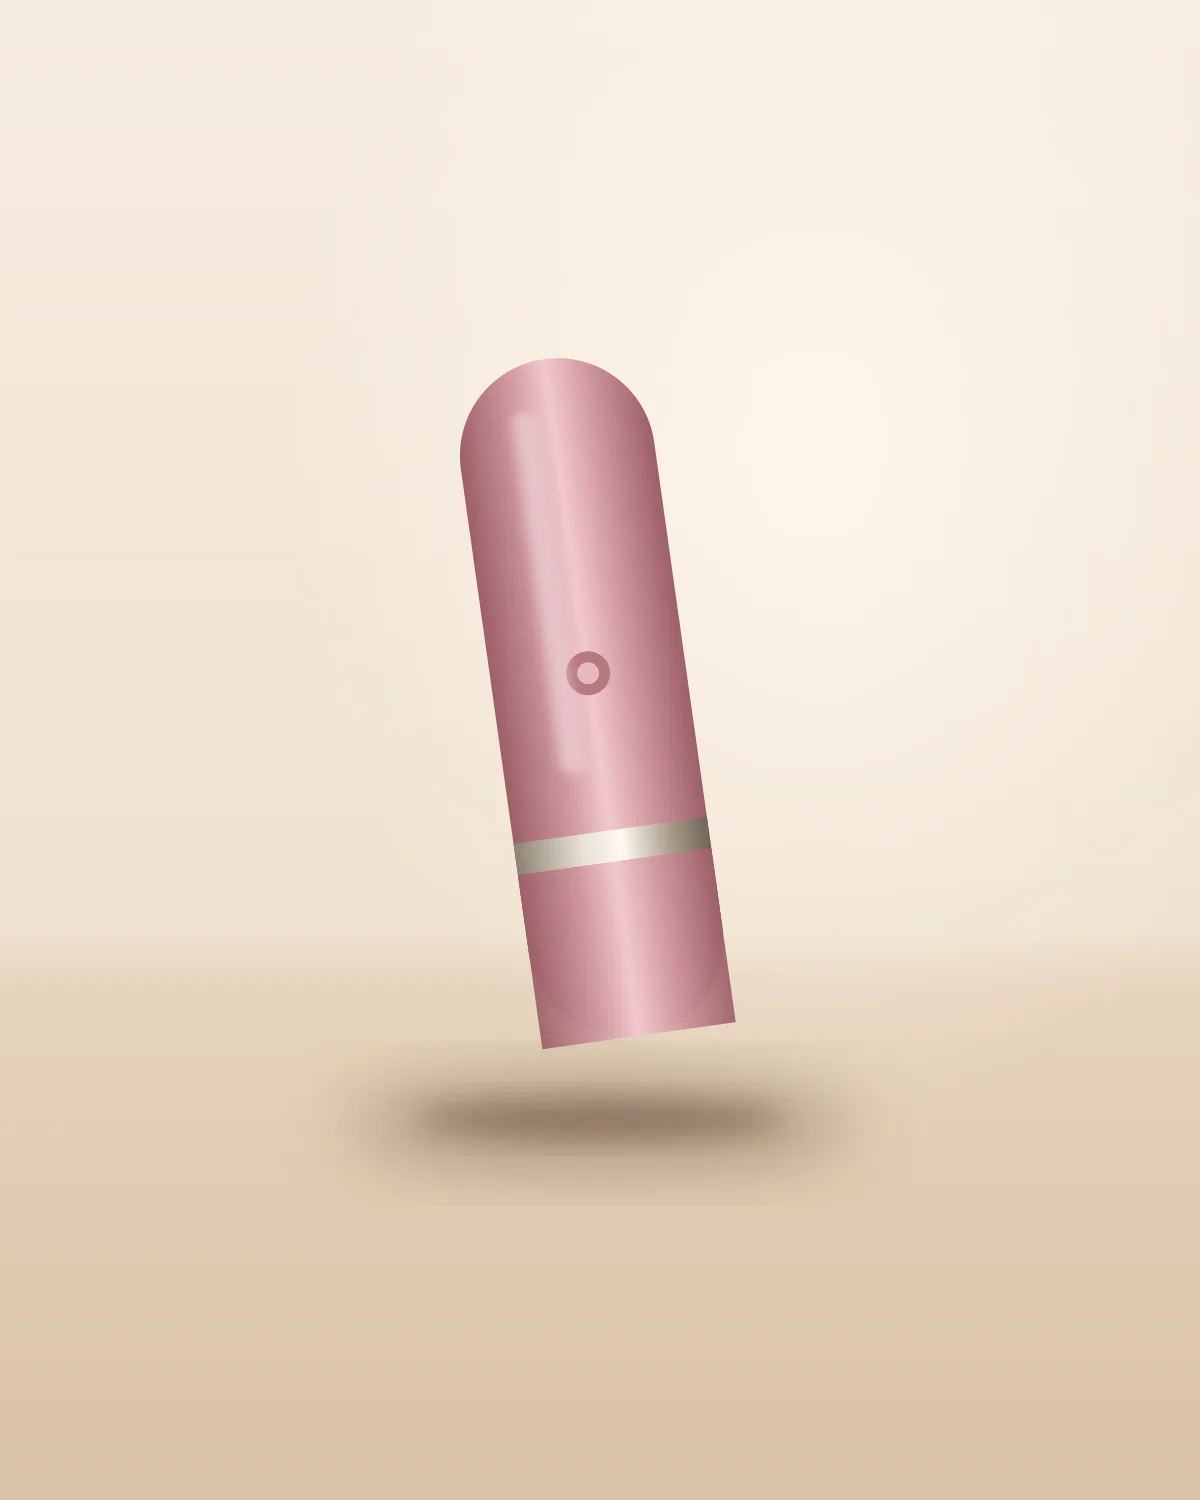
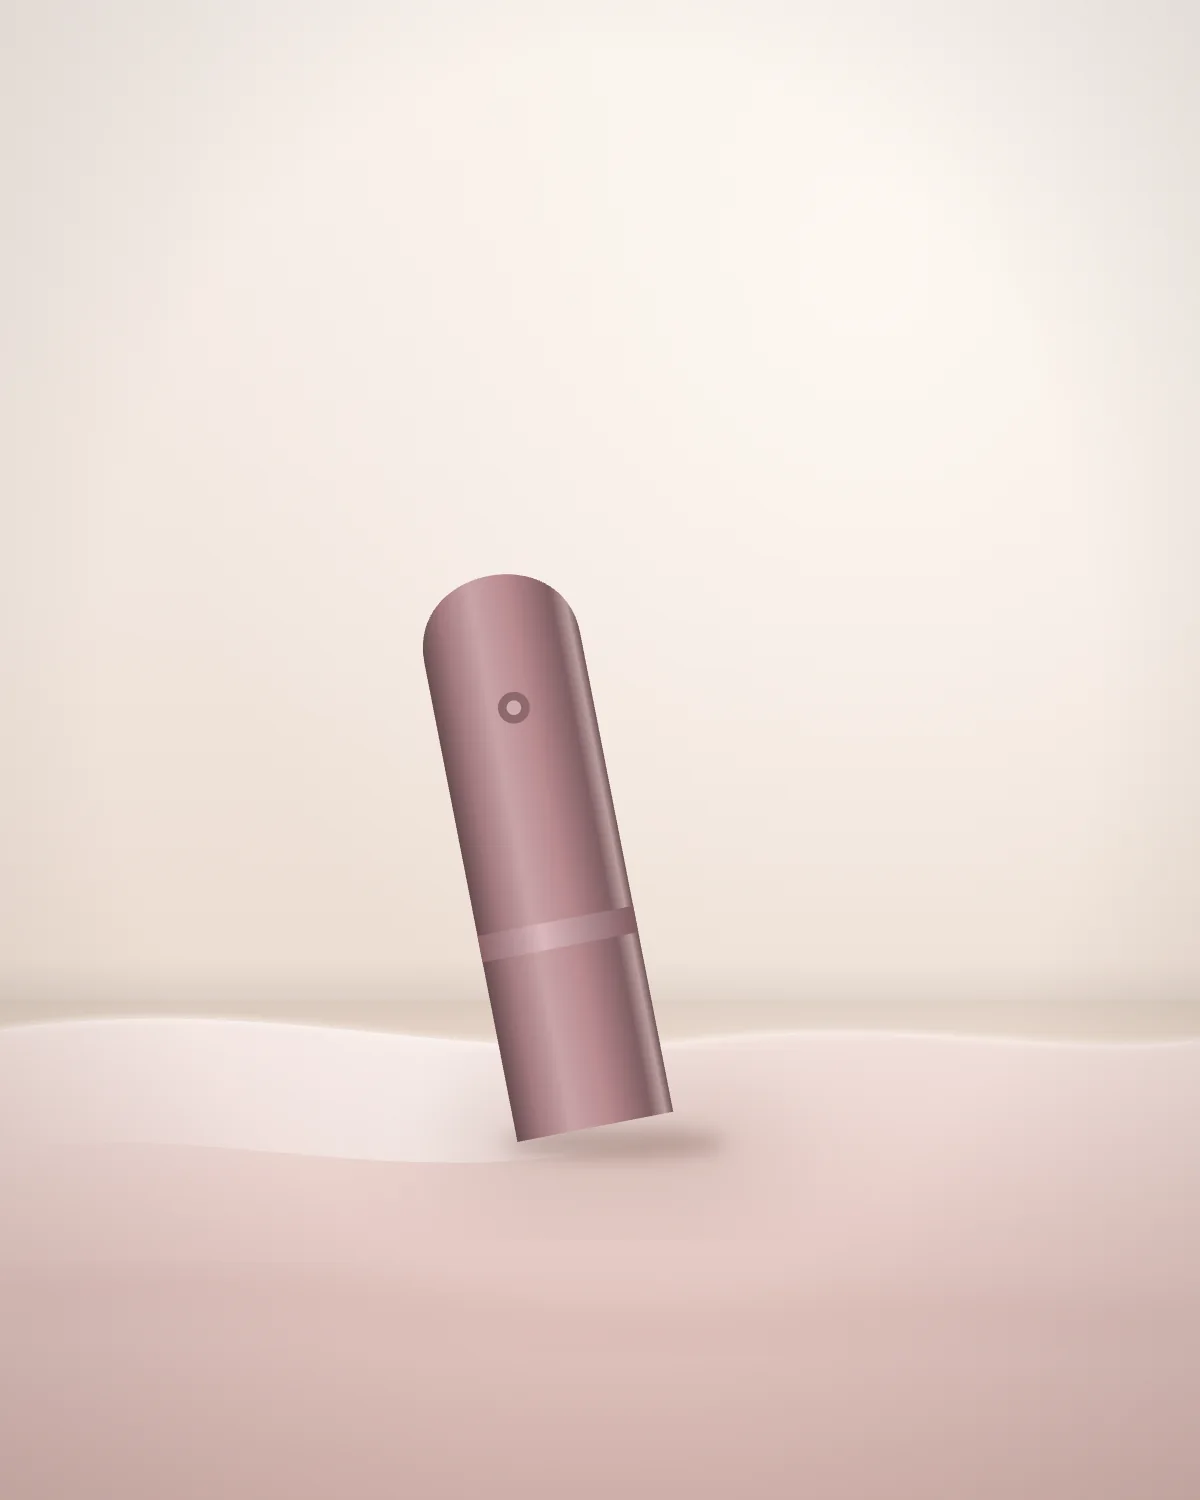
Ilustrasi produk bergaya Grace, kartu percakapan, og.jpg baru
- Delapan ilustrasi produk digambar ulang dengan latar gading, kain satin,
  dan aksen plum-emas khas Grace (dulu satu set krem dipakai bersama).
- Kartu Percakapan Berdua kini punya ilustrasi kotak kartu sendiri, bukan
  tumpukan kartu CSS yang terpotong di ukuran kecil.
- og.jpg ditangkap ulang dari hero sekarang; tangkapan lama masih memuat
  foto pemeran yang dikenali.
- Sumber dicatat di public/images/SUMBER.md, generator di scripts/ilustrasi.

Changed region(s): [[0.0, 0.2147, 0.9867, 0.828], [0.8017, 0.92, 1.0, 1.0], [0.0, 0.92, 0.185, 1.0]]

diff --git a/lib/katalog.js b/lib/katalog.js
@@ -157,7 +157,7 @@ export const PRODUK = [
     nama: 'Kartu Percakapan Berdua',
     babak: 'berdua',
     harga: 95000,
-    image: null,
+    image: '/images/produk/kartu.webp',
     unggulan: true,
     ringkas: 'Dua puluh empat pertanyaan untuk sesudahnya — dari yang ringan sampai yang jarang berani ditanyakan.',
     cerita: [

diff --git a/README.md b/README.md
@@ -34,14 +34,9 @@ npm run dev
 
 Buka http://localhost:3000. Untuk build produksi: `npm run build` lalu `npm start`.
 
-## Kredit foto
+## Kredit foto & ilustrasi
 
-Foto hero berlisensi **CC0 (domain publik)**: bebas dipakai, termasuk untuk komersial, tanpa wajib atribusi. Asalnya tetap dicatat di sini supaya jelas.
-
-- `public/images/hero.webp` — "Engagement Ring" oleh Matt Bango, StockSnap, CC0 ([sumber](https://stocksnap.io/photo/engagement-ring-6OBGTOXRDW)). Dipotong ke 4:5.
-- `public/images/minyak-pijat.webp` — ilustrasi buatan sendiri untuk purwarupa ini.
-- `public/images/produk/*.webp` — ilustrasi buatan sendiri untuk purwarupa ini (menggantikan foto produk yang asal-usulnya tidak terverifikasi). Ganti dengan foto produk asli klien sebelum situs dipakai sungguhan.
-- Varian WebP di `public/_img/` dibuat dari gambar-gambar di atas oleh `scripts/static-images.mjs`.
+Daftar lengkap (berkas, pembuat, sumber, lisensi) ada di [`public/images/SUMBER.md`](public/images/SUMBER.md). Ringkasnya: foto hero CC0, ilustrasi produk buatan sendiri (`scripts/ilustrasi/produk.mjs`), varian WebP di `public/_img/` dibuat oleh `scripts/static-images.mjs`.
 
 ---
 

diff --git a/public/images/SUMBER.md b/public/images/SUMBER.md
@@ -1,0 +1,12 @@
+# Sumber gambar — Positive Crave, konsep Grace
+
+Foto hanya berlisensi CC0 / domain publik (tanpa wajah yang dikenali sebagai subjek utama). CC0 tidak mewajibkan
+atribusi; asal-usulnya tetap dicatat di sini supaya bisa ditelusuri. Ilustrasi produk digambar sendiri lewat kode
+(SVG) untuk purwarupa ini — ganti dengan foto produk asli klien sebelum situs dipakai sungguhan.
+
+| Berkas | Isi | Pembuat | Sumber | Lisensi |
+| --- | --- | --- | --- | --- |
+| `hero.webp` | Tangan bercincin yang digenggam ("Engagement Ring") | Matt Bango | [StockSnap](https://stocksnap.io/photo/engagement-ring-6OBGTOXRDW) | CC0 1.0 (dipotong 4:5) |
+| `minyak-pijat.webp`, `produk/*.webp` (termasuk `produk/kartu.webp`) | Ilustrasi produk fiktif bergaya Grace (latar, cahaya, dan label mengikuti identitas varian) | Ilustrasi buatan sendiri (PintuWeb) | `scripts/ilustrasi/produk.mjs` | — |
+
+Varian WebP di `public/_img/` dibuat dari berkas-berkas di atas oleh `scripts/static-images.mjs`.
